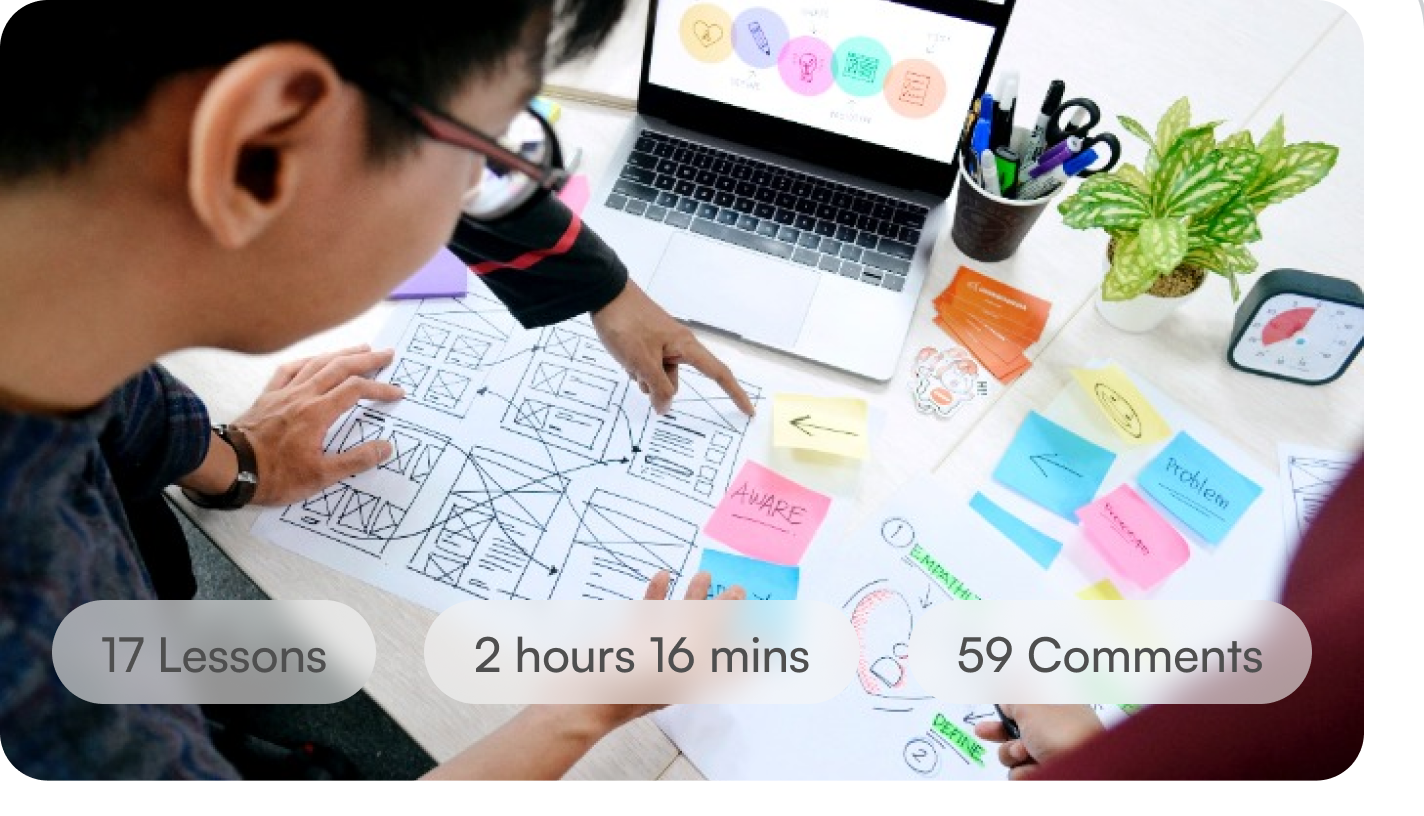
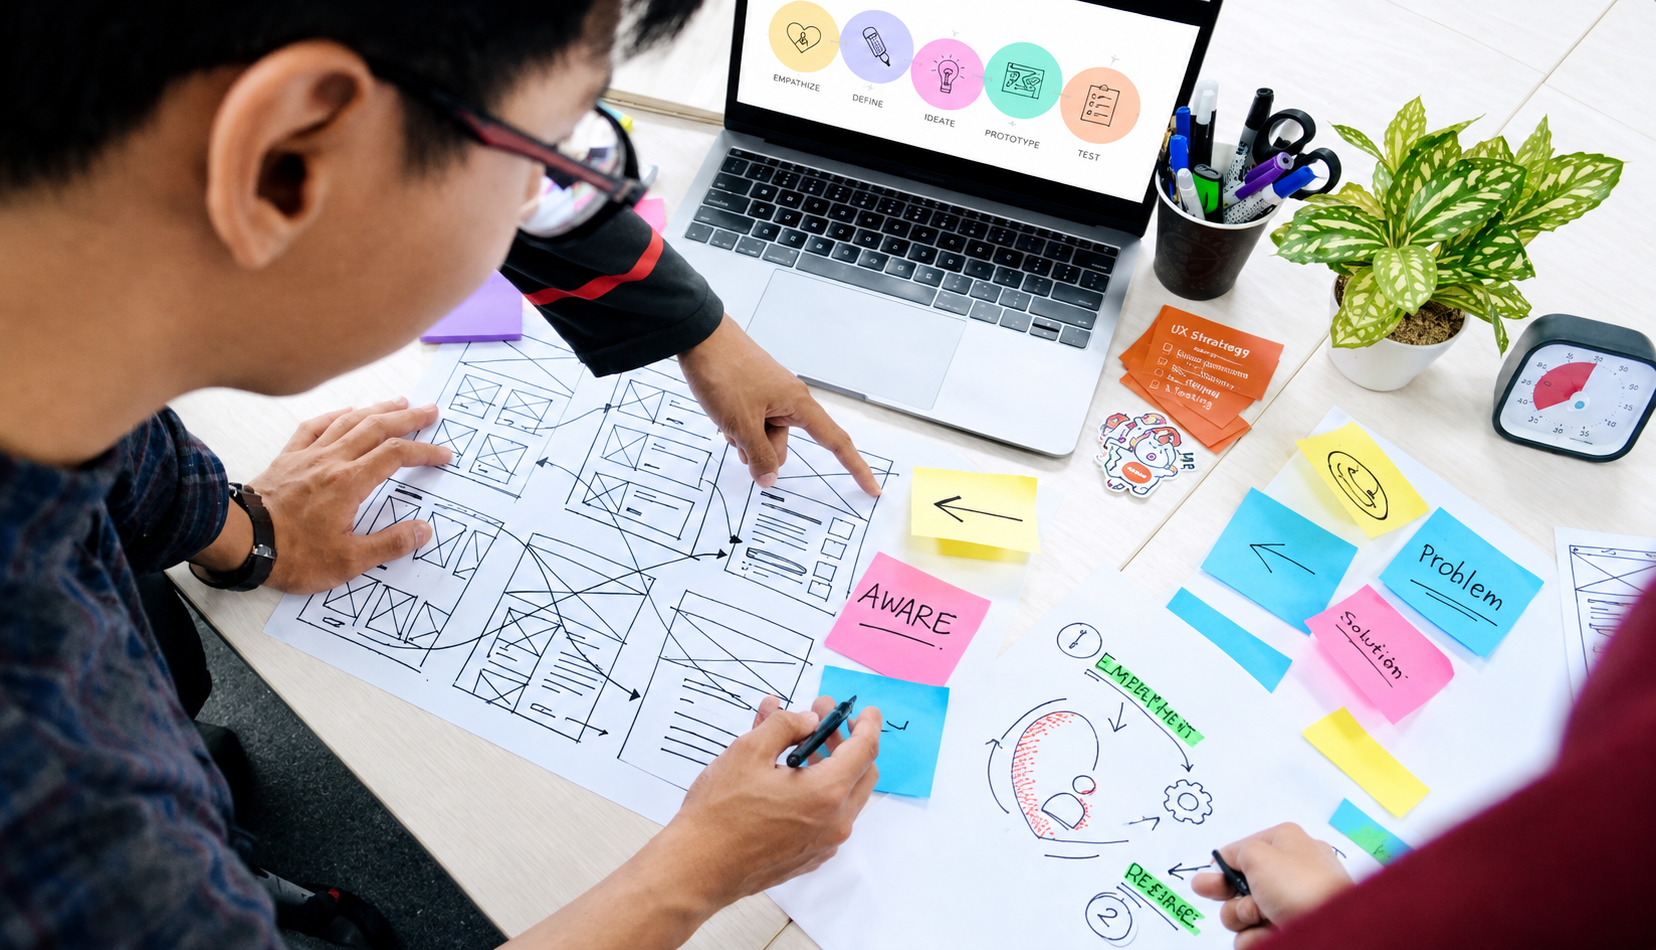
FeaturedCourse Section Upgraded

diff --git a/src/components/CtaBannerSection.tsx b/src/components/CtaBannerSection.tsx
@@ -3,105 +3,114 @@ import Link from "next/link";
 
 export default function CtaBannerSection() {
   return (
-    <section id="creators" className="w-full bg-[#0043ff] text-white py-24 sm:py-32 relative overflow-hidden">
-      {/* Grid Pattern Background */}
+    <section
+      id="creators"
+      className="w-full bg-[#003be2] text-white py-20 lg:py-0 lg:h-[488px] relative overflow-hidden flex items-center justify-center scroll-mt-20"
+    >
+      {/* Grid Pattern Background matching Figma 120px grid */}
       <div className="absolute inset-0 bg-grid-pattern pointer-events-none opacity-60" />
 
-      {/* Floating 3D Shapes */}
-      {/* Top Left: Lime Zigzag */}
-      <div className="absolute -left-10 sm:-left-4 top-0 w-32 sm:w-44 lg:w-56 pointer-events-none select-none z-0">
-        <Image
-          src="/assets/decorations/3d-lime-zigzag.png"
-          alt="3D Lime Zigzag"
-          width={267}
-          height={387}
-          className="w-full h-auto drop-shadow-2xl"
-        />
-      </div>
+      {/* 1440px Canvas Container matching Figma Artboard */}
+      <div className="w-full max-w-[1440px] h-full mx-auto relative flex flex-col items-center justify-center px-6 sm:px-12">
+        {/* Floating 3D Decorations - strictly matching section-cta.png */}
+        <div className="absolute inset-0 pointer-events-none select-none overflow-hidden z-0">
+          {/* 1. Top-Left: Lime Zigzag Spring */}
+          <div className="absolute left-0 top-0 w-[110px] sm:w-[135px] lg:w-[165px] h-auto">
+            <Image
+              src="/assets/decorations/cta_top_left_zigzag.png"
+              alt="3D Lime Zigzag"
+              width={658}
+              height={681}
+              priority
+              className="w-full h-auto drop-shadow-sm"
+            />
+          </div>
 
-      {/* Top Left Mid: White Spring */}
-      <div className="absolute left-8 sm:left-24 lg:left-36 top-16 sm:top-24 w-16 sm:w-20 lg:w-28 pointer-events-none select-none z-0">
-        <Image
-          src="/assets/decorations/3d-white-spring-cutout.png"
-          alt="3D Spring"
-          width={176}
-          height={176}
-          className="w-full h-auto drop-shadow-xl"
-        />
-      </div>
+          {/* 2. Top-Left Mid: White Spring Coil */}
+          <div className="hidden sm:block absolute left-[12%] lg:left-[211px] top-[24px] lg:top-[34px] w-[75px] sm:w-[95px] lg:w-[115px] h-auto">
+            <Image
+              src="/assets/decorations/cta_top_left_spring.png"
+              alt="3D White Spring"
+              width={461}
+              height={488}
+              className="w-full h-auto drop-shadow-sm"
+            />
+          </div>
 
-      {/* Bottom Left: White Cone */}
-      <div className="absolute -left-6 sm:left-6 bottom-16 sm:bottom-20 w-20 sm:w-28 lg:w-36 pointer-events-none select-none z-0">
-        <Image
-          src="/assets/decorations/3d-white-cone.png"
-          alt="3D Cone"
-          width={190}
-          height={189}
-          className="w-full h-auto drop-shadow-xl"
-        />
-      </div>
+          {/* 3. Bottom-Left: White Cone */}
+          <div className="hidden md:block absolute left-0 top-[210px] lg:top-[242px] w-[80px] lg:w-[115px] h-auto">
+            <Image
+              src="/assets/decorations/cta_bottom_left_cone.png"
+              alt="3D White Cone"
+              width={460}
+              height={609}
+              className="w-full h-auto drop-shadow-sm"
+            />
+          </div>
 
-      {/* Bottom Left: White Torus */}
-      <div className="absolute left-6 sm:left-16 -bottom-12 sm:-bottom-8 w-32 sm:w-44 lg:w-52 pointer-events-none select-none z-0">
-        <Image
-          src="/assets/decorations/3d-white-torus.png"
-          alt="3D Torus"
-          width={346}
-          height={343}
-          className="w-full h-auto drop-shadow-2xl"
-        />
-      </div>
+          {/* 4. Bottom-Left: Lime Torus Ring */}
+          <div className="hidden sm:block absolute left-[3%] lg:left-[70px] bottom-0 w-[160px] sm:w-[195px] lg:w-[238px] h-auto">
+            <Image
+              src="/assets/decorations/cta_bottom_left_torus.png"
+              alt="3D Lime Torus"
+              width={951}
+              height={518}
+              className="w-full h-auto drop-shadow-sm"
+            />
+          </div>
 
-      {/* Top Right: White Cone */}
-      <div className="absolute right-12 sm:right-28 top-8 sm:top-14 w-24 sm:w-32 lg:w-40 pointer-events-none select-none z-0">
-        <Image
-          src="/assets/decorations/3d-white-cone.png"
-          alt="3D Cone"
-          width={190}
-          height={189}
-          className="w-full h-auto drop-shadow-xl"
-        />
-      </div>
+          {/* 5. Top-Right: Lime Pyramid / Tetrahedron */}
+          <div className="hidden sm:block absolute right-[12%] lg:right-[210px] top-[16px] lg:top-[22px] w-[80px] sm:w-[100px] lg:w-[125px] h-auto">
+            <Image
+              src="/assets/decorations/cta_top_right_pyramid.png"
+              alt="3D Lime Pyramid"
+              width={499}
+              height={549}
+              className="w-full h-auto drop-shadow-sm"
+            />
+          </div>
 
-      {/* Top Right Far: White Torus / Spring */}
-      <div className="absolute -right-10 sm:-right-4 top-2 sm:top-8 w-36 sm:w-48 lg:w-56 pointer-events-none select-none z-0">
-        <Image
-          src="/assets/decorations/3d-white-torus.png"
-          alt="3D Torus"
-          width={346}
-          height={343}
-          className="w-full h-auto drop-shadow-2xl"
-        />
-      </div>
+          {/* 6. Top-Right Far: White Cylinder */}
+          <div className="hidden md:block absolute right-0 top-[30px] lg:top-[41px] w-[115px] lg:w-[169px] h-auto">
+            <Image
+              src="/assets/decorations/cta_top_right_cylinder.png"
+              alt="3D White Cylinder"
+              width={677}
+              height={1198}
+              className="w-full h-auto drop-shadow-sm"
+            />
+          </div>
 
-      {/* Bottom Right: Lime Zigzag */}
-      <div className="absolute -right-6 sm:right-8 bottom-4 sm:bottom-8 w-32 sm:w-44 lg:w-52 pointer-events-none select-none z-0">
-        <Image
-          src="/assets/decorations/3d-lime-zigzag.png"
-          alt="3D Lime Zigzag"
-          width={267}
-          height={387}
-          className="w-full h-auto drop-shadow-2xl"
-        />
-      </div>
+          {/* 7. Bottom-Right: Lime Zigzag Spring */}
+          <div className="hidden sm:block absolute right-[3%] lg:right-[70px] bottom-0 w-[130px] sm:w-[155px] lg:w-[190px] h-auto">
+            <Image
+              src="/assets/decorations/cta_bottom_right_zigzag.png"
+              alt="3D Lime Zigzag"
+              width={761}
+              height={642}
+              className="w-full h-auto drop-shadow-sm"
+            />
+          </div>
+        </div>
 
-      {/* Centered Main Content */}
-      <div className="max-w-[1360px] mx-auto px-6 sm:px-12 lg:px-16 relative z-10 text-center flex flex-col items-center">
-        <h2 className="font-heading font-semibold text-3xl sm:text-4xl md:text-5xl lg:text-[48px] leading-tight max-w-2xl text-white">
-          Unlock Your Potential as a <br className="hidden sm:inline" />
-          Creator with ByteSpace
-        </h2>
+        {/* Centered Main Content matching typography & layout in section-cta.png */}
+        <div className="relative z-10 text-center flex flex-col items-center max-w-[640px] pointer-events-auto">
+          <h2 className="font-heading font-semibold text-3xl sm:text-4xl md:text-[40px] lg:text-[42px] leading-tight text-white max-w-[560px]">
+            Unlock Your Potential as a <br className="hidden sm:inline" />
+            Creator with ByteSpace
+          </h2>
 
-        <p className="mt-6 text-white/80 font-normal text-base sm:text-lg leading-relaxed max-w-3xl">
-          Experience the collaboration of numerous creators and an expanding selection of courses. Register now and become a part of a community comprising over 10,000 local and international creators. Utilize our Course Editor, and showcase your expertise by publishing your finest course on the ByteSpace Course Library.
-        </p>
+          <p className="mt-5 text-white/80 font-normal text-sm sm:text-base leading-relaxed">
+            Experience the collaboration of numerous creators and an expanding selection of courses. Register now and become a part of a community comprising over 10,000 local and international creators. Utilize our Course Editor, and showcase your expertise by publishing your finest course on the ByteSpace Course Library.
+          </p>
 
-        <Link
-          href="/register"
-          className="mt-8 sm:mt-10 inline-block bg-[#d4fb20] hover:bg-[#cbfc01] text-black font-semibold text-base sm:text-lg px-8 py-3.5 rounded-full transition-all duration-200 hover:shadow-[0_8px_30px_rgba(212,251,32,0.4)] hover:scale-105"
-        >
-          Join as Creator
-        </Link>
+          <Link
+            href="/register"
+            className="mt-7 inline-flex items-center justify-center bg-[#d4fb20] hover:bg-[#cbfc01] text-black font-semibold text-sm sm:text-base px-7 py-3 rounded-full transition-all duration-200 hover:shadow-[0_8px_30px_rgba(212,251,32,0.4)] hover:scale-105 active:scale-95"
+          >
+            Join as Creator
+          </Link>
+        </div>
       </div>
     </section>
   );

diff --git a/src/components/FeaturedCoursesSection.tsx b/src/components/FeaturedCoursesSection.tsx
@@ -180,69 +180,79 @@ export default function FeaturedCoursesSection() {
         </div>
 
         {/* Courses Grid (3 columns x 2 rows) */}
-        <div className="grid grid-cols-1 md:grid-cols-2 lg:grid-cols-3 gap-8">
+        <div className="grid grid-cols-1 md:grid-cols-2 lg:grid-cols-3 gap-8 lg:gap-10 max-w-[1200px] mx-auto">
           {filteredCourses.map((course) => (
             <div
               key={course.id}
-              className="group bg-white rounded-[28px] p-4 sm:p-5 border border-neutral-200/80 shadow-[0_4px_20px_rgba(0,0,0,0.03)] hover:shadow-[0_12px_32px_rgba(0,67,255,0.08)] hover:-translate-y-1.5 transition-all duration-300 flex flex-col justify-between"
+              className="group bg-white rounded-[28px] sm:rounded-[32px] p-4 border border-[#e5e7eb] shadow-[0_4px_24px_rgba(0,0,0,0.02)] hover:shadow-[0_12px_32px_rgba(0,67,255,0.06)] hover:-translate-y-1 transition-all duration-300 flex flex-col justify-between"
             >
               {/* Thumbnail Container */}
-              <div className="relative w-full aspect-[341/196] rounded-2xl overflow-hidden bg-neutral-100">
+              <div className="relative w-full aspect-[341/196] rounded-[20px] overflow-hidden bg-neutral-100">
                 <Image
                   src={course.image}
                   alt={course.title}
                   fill
+                  unoptimized
                   className="object-cover group-hover:scale-105 transition-transform duration-500"
                 />
+
+                {/* Actual Content Boxes: Lessons, Duration, Comments */}
+                <div className="absolute bottom-3 left-2.5 right-2.5 sm:left-3 sm:right-3 flex items-center justify-between gap-1 sm:gap-1.5 z-10 select-none">
+                  <span className="px-2.5 py-1 rounded-full bg-white/70 backdrop-blur-md text-[#242528] text-[11px] font-medium border border-white/40 shadow-xs whitespace-nowrap text-center">
+                    {course.lessons}
+                  </span>
+                  <span className="px-2.5 py-1 rounded-full bg-white/70 backdrop-blur-md text-[#242528] text-[11px] font-medium border border-white/40 shadow-xs whitespace-nowrap text-center">
+                    {course.duration}
+                  </span>
+                  <span className="px-2.5 py-1 rounded-full bg-white/70 backdrop-blur-md text-[#242528] text-[11px] font-medium border border-white/40 shadow-xs whitespace-nowrap text-center">
+                    {course.comments}
+                  </span>
+                </div>
               </div>
 
               {/* Course Info */}
-              <div className="pt-5 pb-2">
+              <div className="pt-4 pb-2 px-1">
+                {/* Title & Rating */}
                 <div className="flex items-center justify-between gap-2">
-                  <h3 className="font-heading font-semibold text-lg sm:text-xl text-neutral-900 group-hover:text-[#0043ff] transition-colors truncate">
+                  <h3 className="font-heading font-bold text-[18px] text-[#111827] leading-snug group-hover:text-[#0043ff] transition-colors truncate">
                     {course.title}
                   </h3>
-                  <div className="flex items-center gap-1 text-neutral-400 shrink-0">
-                    <span className="text-neutral-600 text-sm font-medium">{course.rating}</span>
-                    <Star className="w-4 h-4 fill-neutral-300 text-neutral-300" />
+                  <div className="flex items-center gap-1 shrink-0">
+                    <span className="text-[#71717a] text-[15px] font-medium">{course.rating}</span>
+                    <Star className="w-4 h-4 fill-[#b0b5be] text-[#b0b5be]" />
                   </div>
                 </div>
 
-                <p className="text-neutral-400 text-sm mt-1">
-                  by <span className="text-[#0043ff] hover:underline cursor-pointer">{course.author}</span>
+                {/* Author */}
+                <p className="text-[#71717a] text-xs sm:text-sm mt-1">
+                  by <span className="text-[#0043ff] font-medium hover:underline cursor-pointer">{course.author}</span>
                 </p>
 
                 {/* Level Badge and Avatars Stack */}
-                <div className="flex items-center justify-between mt-5 pt-1">
+                <div className="flex items-center justify-between mt-5">
                   {/* Beginner pill badge */}
-                  <div className="inline-flex items-center gap-1.5 px-3 py-1 rounded-full bg-neutral-100 text-neutral-600 text-xs font-medium">
-                    <BarChart2 className="w-3.5 h-3.5 text-neutral-500" />
+                  <div className="inline-flex items-center gap-1.5 px-3 py-1.5 rounded-full bg-[#f4f4f5] text-[#52525b] text-xs font-medium">
+                    <BarChart2 className="w-3.5 h-3.5 text-[#71717a]" />
                     <span>{course.level}</span>
                   </div>
 
-                  {/* Avatars Stack */}
-                  <div className="flex items-center -space-x-2">
-                    <div className="w-6 h-6 rounded-full border-2 border-white overflow-hidden relative">
-                      <Image src="/assets/avatars/avatar-male-senior.png" alt="Learner" fill className="object-cover" />
-                    </div>
-                    <div className="w-6 h-6 rounded-full border-2 border-white overflow-hidden relative">
-                      <Image src="/assets/avatars/avatar-female-yellow-bg.png" alt="Learner" fill className="object-cover" />
-                    </div>
-                    <div className="w-6 h-6 rounded-full border-2 border-white overflow-hidden relative">
-                      <Image src="/assets/avatars/avatar-male-glasses.png" alt="Learner" fill className="object-cover" />
-                    </div>
-                    <div className="w-6 h-6 rounded-full bg-[#d4fb20] border-2 border-white flex items-center justify-center text-[9px] font-bold text-neutral-900">
-                      {course.studentsCount}
-                    </div>
+                  {/* Avatars Stack matching Figma exact asset */}
+                  <div className="relative w-[120px] h-[30px] shrink-0">
+                    <Image
+                      src="/assets/avatars/avatar-stack-users.png"
+                      alt="Enrolled students"
+                      fill
+                      className="object-contain"
+                    />
                   </div>
                 </div>
 
-                {/* Price */}
-                <div className="mt-5 pt-3 border-t border-neutral-100 flex items-baseline gap-1">
-                  <span className="font-heading font-bold text-2xl text-[#0043ff]">
+                {/* Price (Clean without divider line, exactly matching Figma) */}
+                <div className="mt-5 flex items-baseline gap-1">
+                  <span className="font-heading font-bold text-2xl text-[#0043ff] leading-none">
                     ${course.price}
                   </span>
-                  <span className="text-neutral-500 text-sm">/lifetime</span>
+                  <span className="text-[#71717a] text-xs font-normal">/lifetime</span>
                 </div>
               </div>
             </div>
